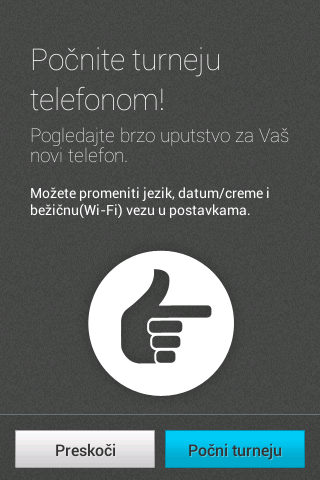
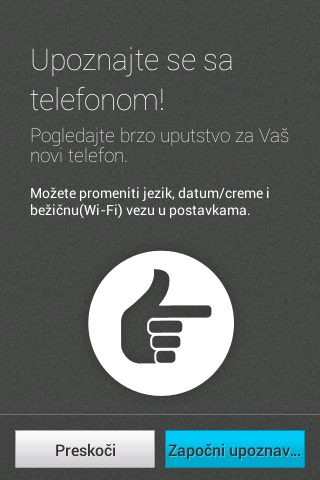
Update (sr-Latn updated by hg repo)

Changed region(s): [[0.0938, 0.0938, 0.75, 0.1562], [0.5312, 0.9062, 0.9375, 0.9688]]

diff --git a/apps_communications_ftu_sr-Latn.html b/apps_communications_ftu_sr-Latn.html
@@ -13,7 +13,7 @@
           <th>Old</th>
           <th>Diff</th>
         </tr>
-        <tr class='changed'>
+        <tr class='ok'>
           <td class='id'>geolocation</td>
           <td class='new'>
             <a href='screenshots/sr-Latn/apps/communications/ftu/geolocation.jpeg'>
@@ -26,9 +26,6 @@
             </a>
           </td>
           <td class='diff'>
-            <a href='screenshots/sr-Latn/apps/communications/ftu/geolocation.diff.jpeg'>
-              <img src='screenshots/sr-Latn/apps/communications/ftu/geolocation.diff.jpeg'/>
-            </a>
           </td>
         </tr>
         <tr class='ok'>
@@ -61,7 +58,7 @@
           <td class='diff'>
           </td>
         </tr>
-        <tr class='changed'>
+        <tr class='ok'>
           <td class='id'>browser_privacy</td>
           <td class='new'>
             <a href='screenshots/sr-Latn/apps/communications/ftu/browser_privacy.jpeg'>
@@ -74,9 +71,6 @@
             </a>
           </td>
           <td class='diff'>
-            <a href='screenshots/sr-Latn/apps/communications/ftu/browser_privacy.diff.jpeg'>
-              <img src='screenshots/sr-Latn/apps/communications/ftu/browser_privacy.diff.jpeg'/>
-            </a>
           </td>
         </tr>
         <tr class='ok'>
@@ -139,7 +133,7 @@
           <td class='diff'>
           </td>
         </tr>
-        <tr class='changed'>
+        <tr class='ok'>
           <td class='id'>welcome_browser</td>
           <td class='new'>
             <a href='screenshots/sr-Latn/apps/communications/ftu/welcome_browser.jpeg'>
@@ -152,9 +146,6 @@
             </a>
           </td>
           <td class='diff'>
-            <a href='screenshots/sr-Latn/apps/communications/ftu/welcome_browser.diff.jpeg'>
-              <img src='screenshots/sr-Latn/apps/communications/ftu/welcome_browser.diff.jpeg'/>
-            </a>
           </td>
         </tr>
         <tr class='ok'>
@@ -277,7 +268,7 @@
           <td class='diff'>
           </td>
         </tr>
-        <tr class='changed'>
+        <tr class='ok'>
           <td class='id'>date_and_time</td>
           <td class='new'>
             <a href='screenshots/sr-Latn/apps/communications/ftu/date_and_time.jpeg'>
@@ -290,9 +281,6 @@
             </a>
           </td>
           <td class='diff'>
-            <a href='screenshots/sr-Latn/apps/communications/ftu/date_and_time.diff.jpeg'>
-              <img src='screenshots/sr-Latn/apps/communications/ftu/date_and_time.diff.jpeg'/>
-            </a>
           </td>
         </tr>
         <tr class='ok'>
@@ -310,7 +298,7 @@
           <td class='diff'>
           </td>
         </tr>
-        <tr class='changed'>
+        <tr class='ok'>
           <td class='id'>step1-first_tutorial_screen</td>
           <td class='new'>
             <a href='screenshots/sr-Latn/apps/communications/ftu/step1-first_tutorial_screen.jpeg'>
@@ -323,12 +311,9 @@
             </a>
           </td>
           <td class='diff'>
-            <a href='screenshots/sr-Latn/apps/communications/ftu/step1-first_tutorial_screen.diff.jpeg'>
-              <img src='screenshots/sr-Latn/apps/communications/ftu/step1-first_tutorial_screen.diff.jpeg'/>
-            </a>
           </td>
         </tr>
-        <tr class='changed'>
+        <tr class='ok'>
           <td class='id'>import_contacts</td>
           <td class='new'>
             <a href='screenshots/sr-Latn/apps/communications/ftu/import_contacts.jpeg'>
@@ -341,9 +326,6 @@
             </a>
           </td>
           <td class='diff'>
-            <a href='screenshots/sr-Latn/apps/communications/ftu/import_contacts.diff.jpeg'>
-              <img src='screenshots/sr-Latn/apps/communications/ftu/import_contacts.diff.jpeg'/>
-            </a>
           </td>
         </tr>
         <tr class='ok'>

diff --git a/index.html b/index.html
@@ -44,7 +44,7 @@
           <td class='ok'><a href=apps_communications_ftu_ru.html>OK</a></td>
           <td class='changed'><a href=apps_communications_ftu_pt-BR.html>CHANGED</a></td>
           <td class='changed'><a href=apps_communications_ftu_ro.html>CHANGED</a></td>
-          <td class='changed'><a href=apps_communications_ftu_sr-Latn.html>CHANGED</a></td>
+          <td class='ok'><a href=apps_communications_ftu_sr-Latn.html>OK</a></td>
           <td class='changed'><a href=apps_communications_ftu_zh-TW.html>CHANGED</a></td>
           <td class='changed'><a href=apps_communications_ftu_fy-NL.html>CHANGED</a></td>
           <td class='changed'><a href=apps_communications_ftu_es.html>CHANGED</a></td>
